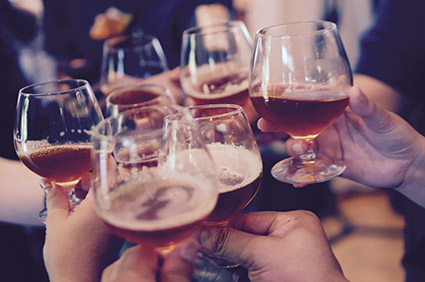
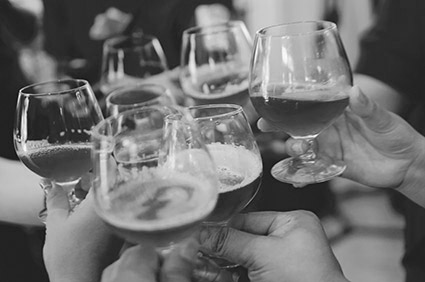
Advice page

diff --git a/app/advice.html b/app/advice.html
@@ -3,7 +3,7 @@
 <head>
     <meta charset="UTF-8">
     <meta name="viewport" content="width=device-width, initial-scale=1">
-    <title>Услуги и цены</title>
+    <title>Полезные советы</title>
     
     <!-- build:css css/vendor.min.css -->
     <link rel="stylesheet" href="libs/bootstrap.min.css">
@@ -76,20 +76,20 @@
               <h2 class="section-title visible-block">Полезные советы</h2>
               <div class="row">
                   <div class="col-sm-4">
-                      <a href="#" class="advice">
-                          <img src="img/just-married.jpg" alt="">
+                      <a href="#" class="advice first">
+                          <img src="img/just-married-color.jpg" alt="">
                           <h3>Свадьба</h3>
                       </a>
                   </div>
                   <div class="col-sm-4">
-                      <a href="#" class="advice">
-                          <img src="img/glasses.jpg" alt="">
+                      <a href="#" class="advice two">
+                          <img src="img/glasses-color.jpg" alt="">
                           <h3>Корпоратив</h3>
                       </a>
                   </div>
                   <div class="col-sm-4">
-                      <a href="#" class="advice">
-                          <img src="img/happy-birthday.jpg" alt="">
+                      <a href="#" class="advice three">
+                          <img src="img/happy-birthday-color.jpg" alt="">
                           <h3>Юбилей</h3>
                       </a>
                   </div>
@@ -136,7 +136,7 @@
     <!-- endbuild -->
     
     <!-- build:js js/main.min.js -->
-
+    <script src="js/greyscale.js"></script>
     <!-- endbuild -->
     
 </body>

diff --git a/app/js/greyscale.js b/app/js/greyscale.js
@@ -1,0 +1,33 @@
+$(document).ready(function(){
+    var agent = navigator.userAgent;
+    var trident = agent.indexOf( 'Trident' );
+    var safari = agent.indexOf( '/5.1.4 Safari/' );
+    if( trident != -1 || safari != -1 ){
+        $('.advice img').remove();
+        $('.advice').prepend('<div></div>');
+        $('.advice div').addClass('img-bg');
+        $('.first div').addClass('married');
+        $('.two div').addClass('glasses');
+        $('.three div').addClass('happy');
+    
+        $('.married').on('mouseenter', function(){
+           $(this).addClass('married-color');
+        });
+        $('.glasses').on('mouseenter', function(){
+            $(this).addClass('glasses-color');
+        });
+        $('.happy').on('mouseenter', function(){
+            $(this).addClass('happy-color');
+        });
+    
+        $('.married').on('mouseleave', function(){
+           $(this).removeClass('married-color');
+        });
+        $('.glasses').on('mouseleave', function(){
+            $(this).removeClass('glasses-color');
+        });
+        $('.happy').on('mouseleave', function(){
+            $(this).removeClass('happy-color');
+        });
+    }
+});

diff --git a/app/css/style.css b/app/css/style.css
@@ -716,3 +716,31 @@ form input[type=submit]:active {
 .advice:hover img {
   -webkit-filter: none;
           filter: none; }
+
+/* FILTER GRAYSCALE FOR IE */
+.img-bg {
+  width: 96%;
+  height: 240px;
+  margin: 0 auto;
+  background-repeat: no-repeat;
+  background-size: 100%;
+  -webkit-transition-duration: 1s;
+          transition-duration: 1s; }
+
+.married {
+  background-image: url(../img/just-married.jpg); }
+
+.married-color {
+  background-image: url(../img/just-married-color.jpg); }
+
+.glasses {
+  background-image: url(../img/glasses.jpg); }
+
+.glasses-color {
+  background-image: url(../img/glasses-color.jpg); }
+
+.happy {
+  background-image: url(../img/happy-birthday.jpg); }
+
+.happy-color {
+  background-image: url(../img/happy-birthday-color.jpg); }

diff --git a/app/sass/style.sass b/app/sass/style.sass
@@ -701,3 +701,31 @@ form
     
 .advice:hover img
     filter: none
+    
+/* FILTER GRAYSCALE FOR IE */
+
+.img-bg
+    width: 96%
+    height: 240px
+    margin: 0 auto
+    background-repeat: no-repeat
+    background-size: 100%
+    transition-duration: 1s
+    
+.married
+    background-image: url(../img/just-married.jpg)
+    
+.married-color
+    background-image: url(../img/just-married-color.jpg)
+    
+.glasses
+    background-image: url(../img/glasses.jpg)
+    
+.glasses-color
+    background-image: url(../img/glasses-color.jpg)
+    
+.happy
+    background-image: url(../img/happy-birthday.jpg)
+    
+.happy-color
+    background-image: url(../img/happy-birthday-color.jpg)
